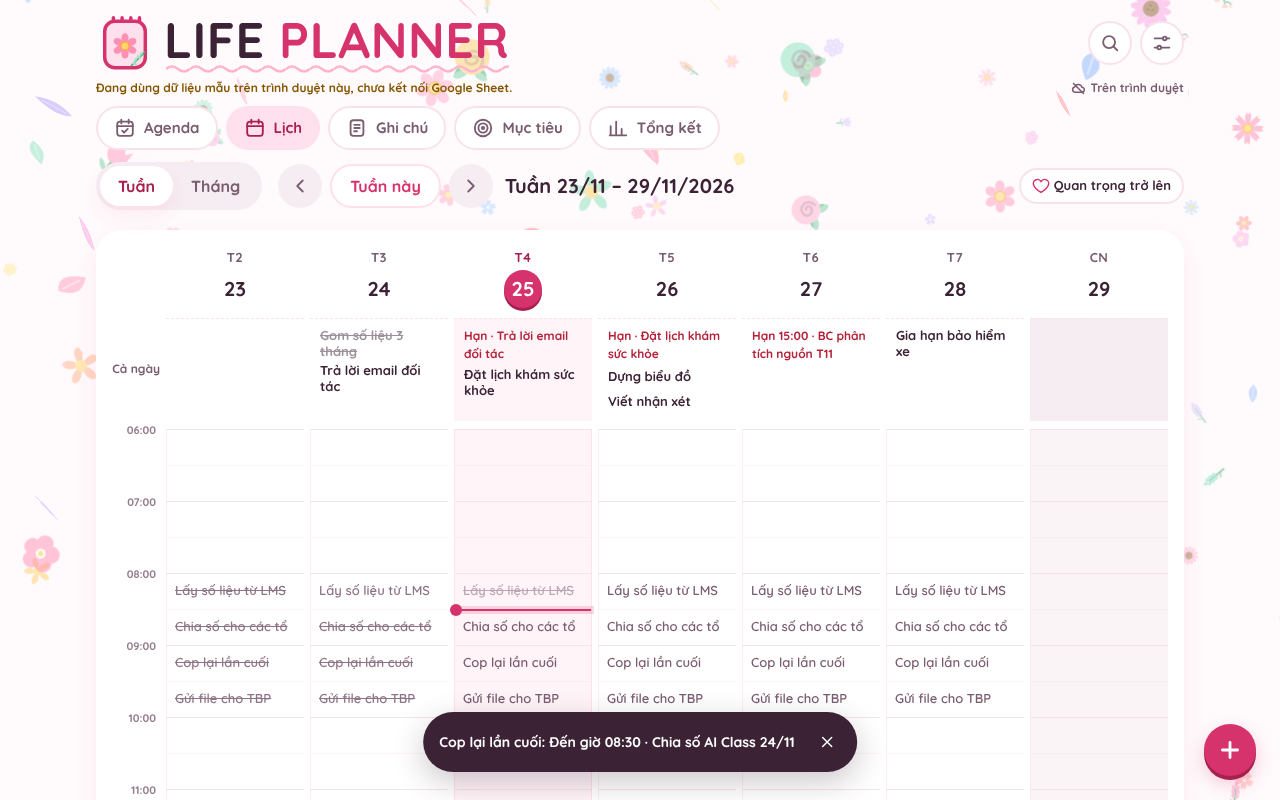
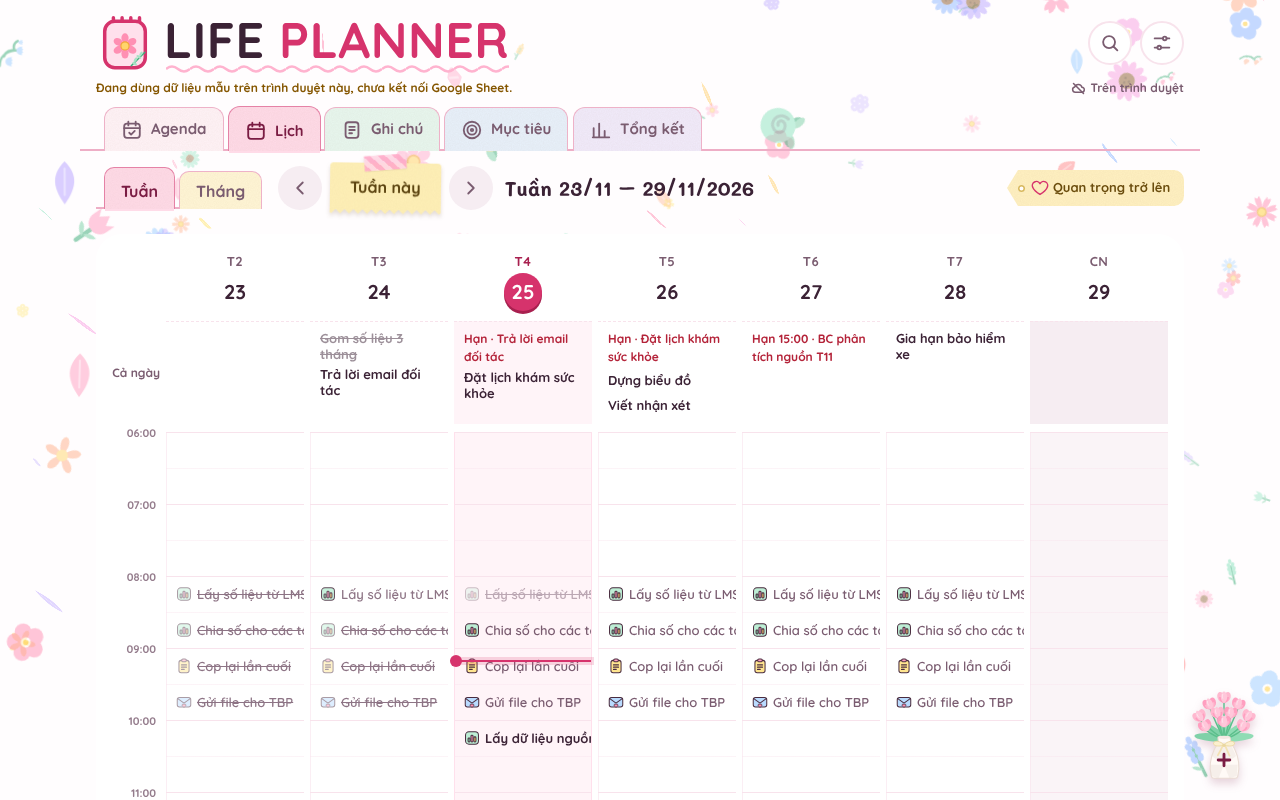
Trang giới thiệu: phông Mali, nút giấy và ảnh app mới
Claude-Session: https://claude.ai/code/session_0149sgxtJqjnDkquQg9Zcj1E

diff --git a/src/v2/css/gioi-thieu.css b/src/v2/css/gioi-thieu.css
@@ -12,7 +12,7 @@ a:focus-visible,.btn:focus-visible{outline:3px solid var(--accent);outline-offse
 /* 1. Đầu trang */
 .gt-hero{display:grid;grid-template-columns:minmax(0,1.3fr) minmax(0,1fr);gap:32px;align-items:center}
 .gt-kicker{margin:0 0 8px;font-size:14px;font-weight:700;color:var(--accent-deep);letter-spacing:.3px}
-.gt-hero h1{margin:0;font-family:var(--display);font-weight:700;font-size:clamp(34px,6vw,60px);line-height:1.08;letter-spacing:-.5px;text-wrap:balance}
+.gt-hero h1{margin:0;font-family:var(--hand,var(--display));font-weight:700;font-size:clamp(34px,6vw,60px);line-height:1.08;letter-spacing:-.5px;text-wrap:balance}
 .gt-lead{margin:16px 0 0;max-width:34em;font-size:clamp(17px,2vw,19px);font-weight:500;color:var(--muted)}
 .gt-actions{display:flex;flex-wrap:wrap;gap:12px;margin-top:28px}
 .gt-big{min-height:52px;padding:10px 24px;font-size:17px}
@@ -20,7 +20,7 @@ a:focus-visible,.btn:focus-visible{outline:3px solid var(--accent);outline-offse
 .gt-hello{position:relative;border-radius:28px;padding:28px 24px;min-height:220px;display:flex;flex-direction:column;justify-content:flex-end;
   background:linear-gradient(135deg,var(--hello-1) 0%,var(--hello-2) 60%,var(--hello-3) 100%);box-shadow:var(--shadow);transform:rotate(1.2deg)}
 .gt-sun{position:absolute;right:20px;top:20px}
-.gt-hello-h{margin:0;font-family:var(--display);font-weight:700;font-size:28px}
+.gt-hello-h{margin:0;font-family:var(--hand,var(--display));font-weight:700;font-size:28px}
 .gt-hello-s{margin:4px 0 0;display:inline-flex;align-self:flex-start;padding:4px 12px;border-radius:14px;font-size:14px;font-weight:700;color:var(--accent-deep);background:color-mix(in srgb,var(--surface) 70%,transparent)}
 
 /* 2. Ảnh app */
@@ -30,7 +30,7 @@ a:focus-visible,.btn:focus-visible{outline:3px solid var(--accent);outline-offse
 .gt-shot .gt-frame{padding:10px;border-radius:28px}
 
 /* Khối nội dung */
-.gt-sec h2,.gt-end h2{margin:0 0 20px;font-family:var(--display);font-weight:700;font-size:clamp(24px,3.4vw,34px);line-height:1.2}
+.gt-sec h2,.gt-end h2{margin:0 0 20px;font-family:var(--hand,var(--display));font-weight:700;font-size:clamp(24px,3.4vw,34px);line-height:1.2}
 .gt-sec h3{margin:0 0 6px;font-family:var(--display);font-weight:700;font-size:18px}
 .gt-sec p{margin:0;font-weight:500;color:var(--muted)}
 .gt-tabs,.gt-steps,.gt-facts{list-style:none;margin:0;padding:0;display:grid;gap:16px}

diff --git a/src/v2/gioi-thieu.html b/src/v2/gioi-thieu.html
@@ -10,10 +10,12 @@
   <link rel="icon" type="image/svg+xml" href="../favicon.svg">
   <link rel="preconnect" href="https://fonts.googleapis.com">
   <link rel="preconnect" href="https://fonts.gstatic.com" crossorigin>
-  <link rel="stylesheet" href="https://fonts.googleapis.com/css2?family=Quicksand:wght@500;600;700&display=swap">
-  <link rel="stylesheet" href="css/tokens.css?v=v2a">
-  <link rel="stylesheet" href="css/base.css?v=v2a">
-  <link rel="stylesheet" href="css/gioi-thieu.css?v=v2a">
+  <link rel="stylesheet" href="https://fonts.googleapis.com/css2?family=Mali:wght@600;700&family=Quicksand:wght@500;600;700&display=swap">
+  <link rel="stylesheet" href="css/tokens.css?v=v2c">
+  <link rel="stylesheet" href="css/base.css?v=v2c">
+  <link rel="stylesheet" href="css/so-tay.css?v=v2c">
+  <link rel="stylesheet" href="css/nut-giay.css?v=v2f">
+  <link rel="stylesheet" href="css/gioi-thieu.css?v=v2b">
 </head>
 <body>
   <a class="gt-skip" href="#noi-dung">Bỏ qua, đến nội dung</a>
@@ -113,7 +115,7 @@
 
   <footer class="gt-foot"><p>Life Planner V2 · dùng riêng</p></footer>
 
-  <script src="js/core/flowers.js?v=v2a"></script>
+  <script src="js/core/flowers.js?v=v2c"></script>
   <script>LP.flowers.install(); LP.flowers.applyBg();</script>
 </body>
 </html>

diff --git a/docs/v2/TIEN-DO-V2.md b/docs/v2/TIEN-DO-V2.md
@@ -48,3 +48,8 @@
 - "Tỷ lệ hoàn thành công việc" đổi từ cột sang đường xu hướng mượt (đường cong monotone, không vọt quá 100%). Vùng xanh ≥ 80%, ngày dưới 80% có chấm và số, vạch trung bình "TB X%" (bằng ô Hoàn thành). Trục dọc bắt đầu từ mức thấp nhất làm tròn 20. Vẫn bấm từng điểm (`.mt-col`) để mở chi tiết.
 - Tổng quan có câu tóm tắt `.mt-say`; Mức quan trọng ghi tên mức và chi tiết khẩn bằng chữ.
 - Test `all` 125/125. Ảnh: `docs/v2/anh/tk-duong-*.png`.
+
+## Trang giới thiệu khớp giao diện mới (nhánh v2/gioi-thieu-cap-nhat, 26/11/2026)
+- `gioi-thieu.html` nạp thêm phông Mali, `so-tay.css`, `nut-giay.css`: tiêu đề viết tay, nút kiểu giấy như trong app.
+- Chụp lại 4 ảnh app trong `img/gioi-thieu/` (Agenda, Lịch, Ghi chú, Tổng kết có biểu đồ đường mới).
+- Nhánh `v2/nut-hoa` (thử nút + bông hoa / giấy note) bỏ, vì nút đã làm xong ở PR #21.
